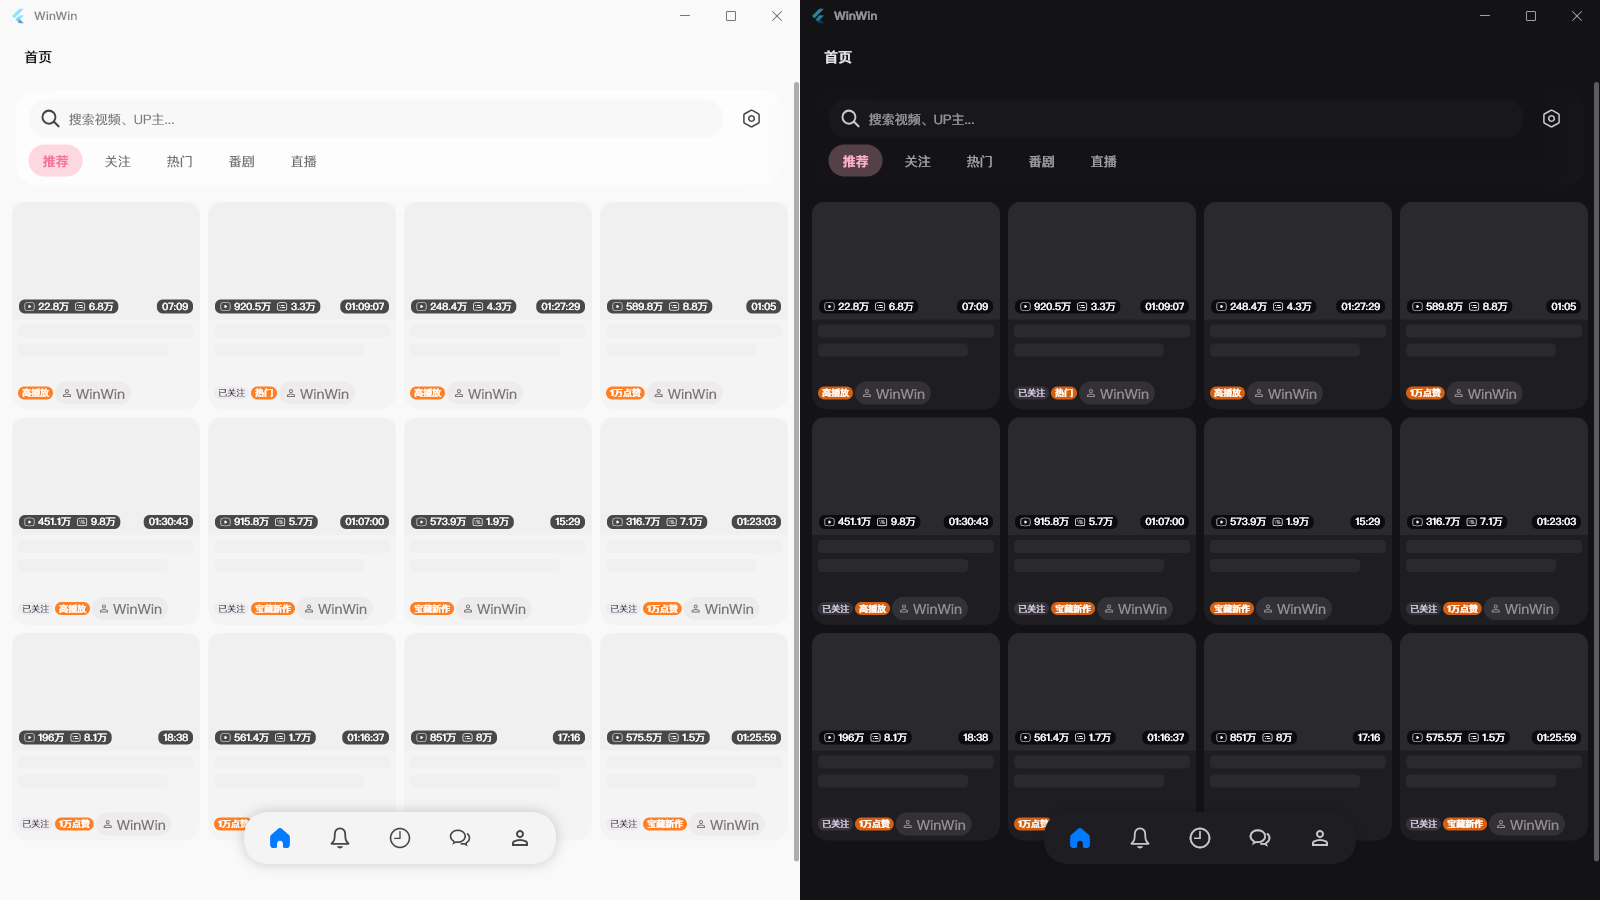
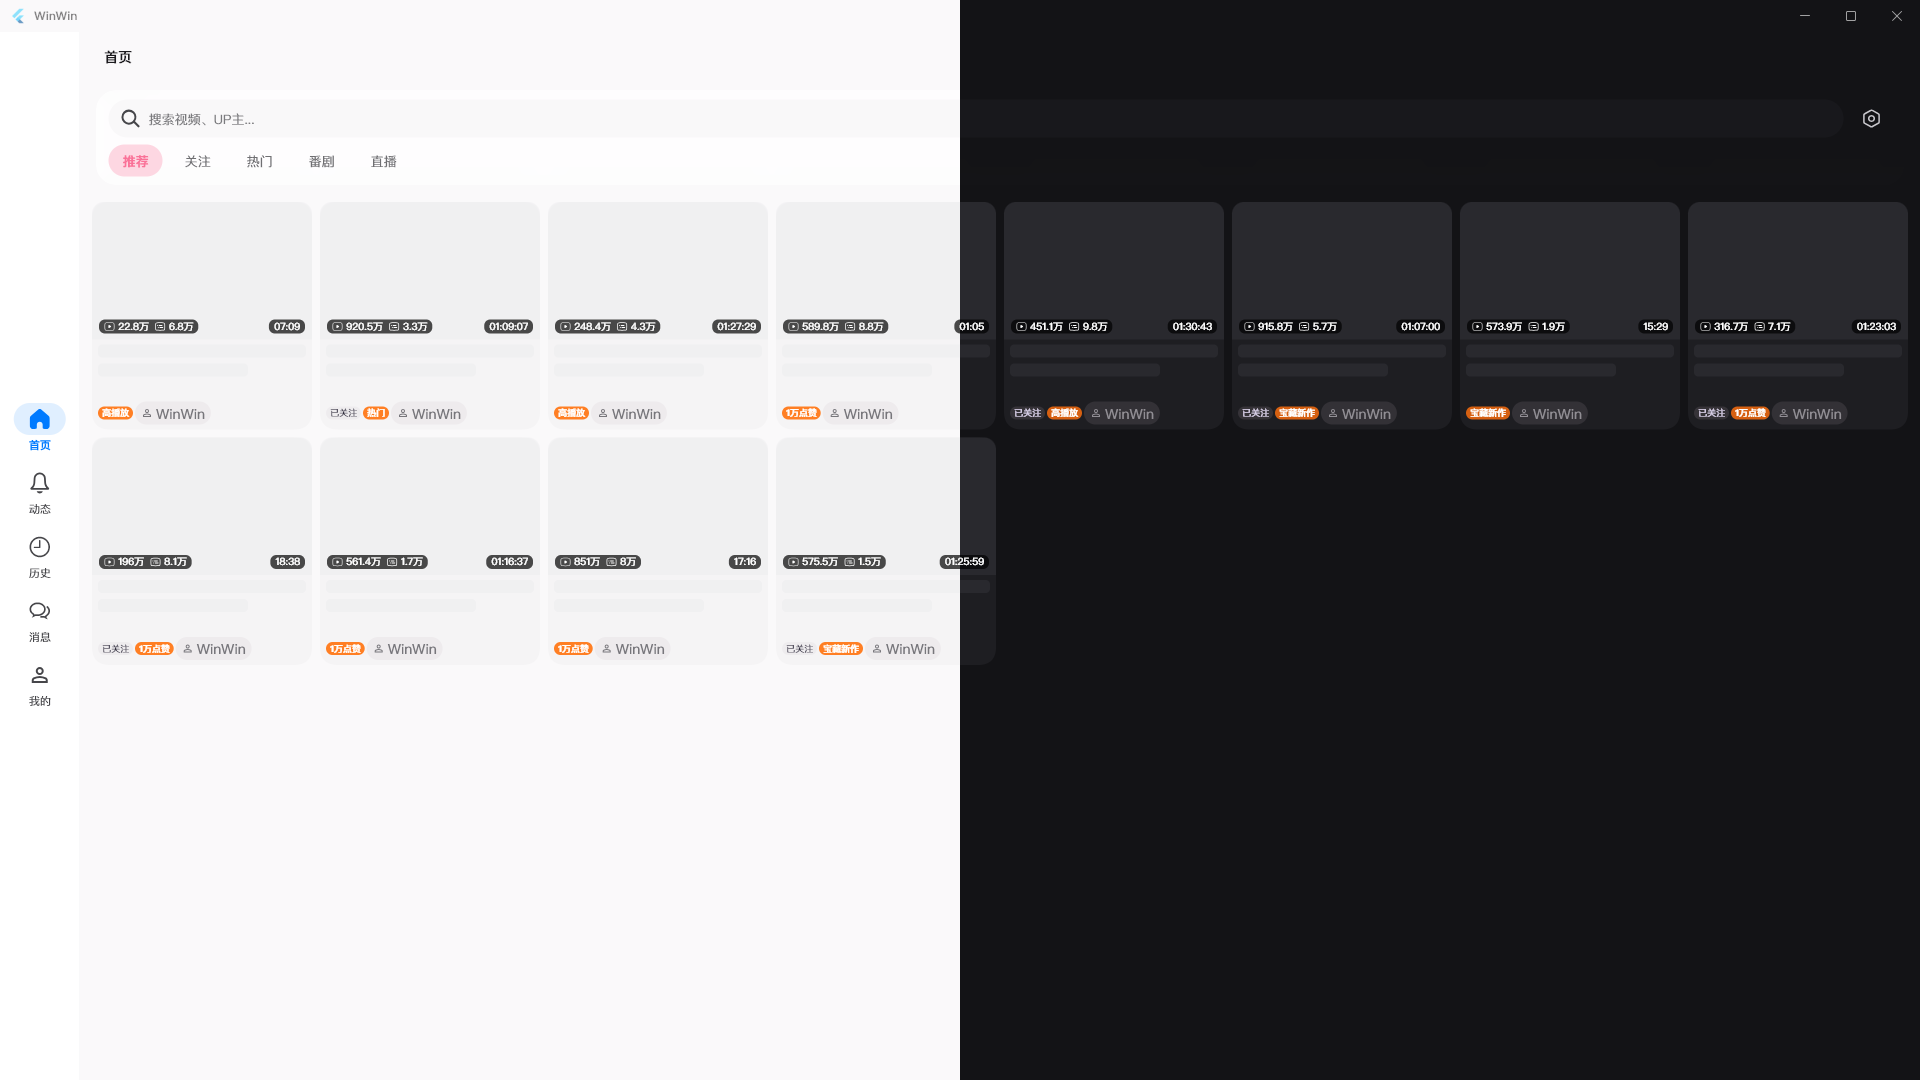
# AI生成 [docs](readme): 演示模式展示图改为 1920×1080 宽屏，浅色左半＋深色右半合成 [小通/deepseek-v4.1-flash]
- 截图统一 1920×1080、宽屏（左侧导航栏）布局
- 拼图口径修正：浅色取左半 + 深色取右半，合成一张 1920×1080
- 重出 assets/screenshots/01-home..05-setting.png
- 更新 README 说明与 docs/README展示图生成复盘-2026-10-25.md

快照基准：cb8be7f（回滚：git reset --hard cb8be7f）。

[小通/deepseek-v4.1-flash]

diff --git a/docs/README展示图生成复盘-2026-10-25.md b/docs/README展示图生成复盘-2026-10-25.md
@@ -6,9 +6,13 @@
 
 为 README 补 5 张「程序演示模式」展示图：**根页面 / 播放页 / 用户空间 / 番剧页 / 设置页**。
 
-口径（用户定）：
+口径（用户定，含一次修正）：
 
-- 每页产出**一张**图，把**浅色截图放左、深色截图放右**拼接，总尺寸 **1600×900**（即每半 800×900）。
+- 原型：每页产出**一张**图、浅色在左深色在右；尺寸 1600×900、每半 800×900。
+- **修正后（本版实际口径）**：
+  1. 截图分辨率统一 **1920×1080**；
+  2. 使用**宽屏模式**窗口（宽 ≥ 900 → 左侧导航栏布局）；
+  3. 拼图法：取**浅色截图的左半** + **深色截图的右半**，左右拼接为**一张 1920×1080**。
 - 截图须为**演示模式**下的干净画面（云端内容与账号标识已换成占位，无第三方素材）。
 
 ## 2. 方案与关键决策
@@ -20,26 +24,30 @@
 原因：
 
 - 单实例互斥体（`windows/runner/main.cpp`，`Local\winwin-single-instance-v1`）要求先关闭在跑实例才能起受控实例；
-- 桌面截屏依赖窗口几何 + 点击坐标，窗口被应用自身的 `WindowStateController` 反复施加保存尺寸 → 尺寸不稳、且盲点不可靠；
+- 桌面截屏依赖窗口几何 + 点击坐标，且窗口被应用自身 `WindowStateController` 反复施加保存尺寸 → 尺寸不稳、盲点不可靠；
 - 应用内 `RenderRepaintBoundary.toImage()` 出图**确定性、不点击、不依赖窗口尺寸/DPI**，且可写进度文件自证。
 
-**尺寸精确化关键坑**：直接把 `SizedBox(800,900)` 放在根，会被父级**紧约束**覆盖（`BoxConstraints.enforce` 取 `max(min, incoming.min)`），实测得到的是窗口逻辑尺寸（先是 656×744，后是 1073×969）。**必须用 `Align`（松约束）包住** `RepaintBoundary → SizedBox(800,900)`，才能真正固定为 800×900。
+**尺寸精确化（两处关键坑）**：
+
+1. 直接把 `SizedBox(1920,1080)` 放根，会被父级**紧约束**覆盖（`BoxConstraints.enforce` 取 `max(min, incoming.min)`）→ 实际得到窗口逻辑尺寸（曾实测 656×744 / 1073×969）。
+2. 用 `Align`（松约束）仍会被窗口尺寸**上界**压制（窗口逻辑高度不足 1080 时被裁剪）。
+   → 最终用 **`Align → UnconstrainedBox → RepaintBoundary → SizedBox(1920×1080)`**：`UnconstrainedBox` 施加**无界约束**，使 `SizedBox` 精确生效、完全不受窗口大小影响；`RepaintBoundary` 尺寸即 1920×1080，`toImage(pixelRatio: 1.0)` 得到精确 1920×1080。1920 宽 ≥ 900 断点 → 自动走**宽屏（左侧导航栏）**布局。
 
 ## 3. 改动面（均为临时，跑完即还原）
 
 - `lib/main.dart`（**临时补丁，已还原**）：
   - 追加 `_shotBoundaryKey` 与 `_runAutoShot()`（环境变量 `WINWIN_AUTOSHOT=1` 时启用）；
-  - `Catcher2` 的 `rootWidget` 在巡航模式下改为 `Align(topLeft) → RepaintBoundary(key) → SizedBox(800×900) → WinWinApp`；
-  - 巡航逻辑：等待 bootstrap → 依次切换浅/深主题（`ThemeNotifier.setMode`）→ 对每页 `appNavigatorKey.currentState.push(AppRoute(...))` → 截帧 → `pop`。
-- 临时辅助工具（跑完已移入 `scratch/screenshot-2026-10-25/`，不入库）：
+  - `Catcher2.rootWidget` 在巡航模式下改为 `Align → UnconstrainedBox → RepaintBoundary(key) → SizedBox(1920×1080) → WinWinApp`；
+  - 巡航逻辑：等 bootstrap → 依次切浅/深主题（`ThemeNotifier.setMode`）→ 逐页 `appNavigatorKey.currentState.push(AppRoute(...))` → 截帧 → `pop`。
+- 临时辅助工具（已入 `scratch/screenshot-2026-10-25/`，gitignored 不入库）：
   - `demo_shot_settings.dart`：读写 Hive `setting` box（`demoMode` / `themeMode` / `windowSize` / `windowPosition` / `isWindowMaximized`）；
-  - `capture_window.ps1`：按窗口矩形外置截屏（本轮未采用，留档备用）。
+  - `capture_window.ps1`：按窗口矩形外置截屏（未采用，留档备用）。
 
-**未提交**任何源改动（`main.dart` 还原；`tool/` 本就未纳管；临时件入 `scratch/`）。
+**未提交**任何源改动（`main.dart` 还原；`tool/` 未纳管；临时件入 `scratch/`）。
 
 ## 4. 产物
 
-`assets/screenshots/`（每张 1600×900，浅色左 / 深色右）：
+`assets/screenshots/`（每张 1920×1080，浅色左半 / 深色右半）：
 
 | 文件 | 页面 |
 | --- | --- |
@@ -55,7 +63,7 @@
 2. 预置设置（Hive 路径 `%APPDATA%\com.winwin\winwin\hive`）：
 
    ```bash
-   dart run tool/demo_shot_settings.dart "%APPDATA%\com.winwin\winwin\hive" set demoMode=true themeMode=0 windowSize=[1300,1400]
+   dart run tool/demo_shot_settings.dart "%APPDATA%\com.winwin\winwin\hive" set demoMode=true
    ```
 
 3. 打临时巡航补丁（`main.dart` 还原前的那版；核心如下），`flutter build windows --release`。
@@ -64,9 +72,12 @@
    // rootWidget（巡航模式）：
    Align(
      alignment: Alignment.topLeft,
-     child: RepaintBoundary(
-       key: _shotBoundaryKey,
-       child: SizedBox(width: 800, height: 900, child: WinWinApp(...)),
+     child: UnconstrainedBox(
+       alignment: Alignment.topLeft,
+       child: RepaintBoundary(
+         key: _shotBoundaryKey,
+         child: SizedBox(width: 1920, height: 1080, child: WinWinApp(...)),
+       ),
      ),
    )
    // _runAutoShot()：等首帧 → 对每个主题/每页 push→截帧→pop
@@ -83,16 +94,19 @@
 
    进度与异常写入 `assets/screenshots/_raw/shot_progress.txt`（`OK <name> WxH` / `ERR` / `FATAL`）。
 
-5. 拼接（Pillow）：
+5. 拼接（Pillow，浅色左半 + 深色右半）：
 
    ```python
    from PIL import Image
    for key, out in [('home','01-home.png'),('player','02-player.png'),
                     ('space','03-space.png'),('bangumi','04-bangumi.png'),
                     ('setting','05-setting.png')]:
-       c = Image.new('RGB', (1600, 900), (255, 255, 255))
-       c.paste(Image.open(f'.../_raw/light_{key}.png').convert('RGB'), (0, 0))
-       c.paste(Image.open(f'.../_raw/dark_{key}.png').convert('RGB'), (800, 0))
+       l = Image.open(f'.../_raw/light_{key}.png').convert('RGB')
+       d = Image.open(f'.../_raw/dark_{key}.png').convert('RGB')
+       w, h = l.size; half = w // 2
+       c = Image.new('RGB', (w, h))
+       c.paste(l.crop((0, 0, half, h)), (0, 0))      # 浅色：左半
+       c.paste(d.crop((half, 0, w, h)), (half, 0))   # 深色：右半
        c.save(f'assets/screenshots/{out}')
    ```
 
@@ -100,19 +114,20 @@
 
 ## 6. 验证与提交回滚
 
-- 巡航自证：`shot_progress.txt` 全 10 项 `OK <name> 800x900`，无 `ERR/FATAL`。
-- 图片非空核验：浅色底 ~`(250,249,250)`、深色底 ~`(19,19,22)`；播放页中心为演示灰占位 `(189,189,190)`。
+- 巡航自证：`shot_progress.txt` 全 10 项 `OK <name> 1920x1080`，无 `ERR/FATAL`。
+- 图片非空核验：浅色底/深色底明暗分明；播放页中心为演示灰占位。
 - 复核方式：**因本会话模型无图像识读能力，成图观感需用户实机查看确认**。
-- 改动前快照基准：`f0c27ad`（工作区干净）。
-- 回滚：`git reset --hard f0c27ad`；用户 Hive 设置已按原值还原（`demoMode=true` / `themeMode=2` / `windowSize=2061.6×1118.4` / `windowPosition=-6.4,-7.2`）。
+- 改动前快照基准：`cb8be7f`（回滚：`git reset --hard cb8be7f`）。
+- 用户 Hive 设置已按原值还原（`demoMode=true` / `themeMode=2` / `windowSize=2061.6×1118.4` / `windowPosition=-6.4,-7.2`）。
 
 ## 7. 踩坑
 
-1. **父级紧约束吞掉 `SizedBox`**：根节点拿到的是窗口逻辑尺寸的**紧**约束，`SizedBox` 缩小无效；须用 `Align`/`Center` 造松约束。
+1. **父级紧约束吞掉 `SizedBox`**：根节点拿到的是窗口逻辑尺寸的**紧**约束，`SizedBox` 缩小无效；`Align` 只解决下限、上限仍被窗口压制 → 最终须用 `UnconstrainedBox` 造**无界约束**。
 2. **按镜像名杀进程被安全策略拦截**（`taskkill /IM`）——必须按 **PID**。
-3. 桌面外置截屏拿到的 client 尺寸不稳定（应用会按保存值重设窗口），故最终放弃外置截屏、改用内部截帧。
-4. 演示模式本已处于开启状态（用户原值 `demoMode=true`）——预检读取原值时才发现，避免误判。
+3. 桌面外置截屏拿到的 client 尺寸不稳定（应用会按保存值重设窗口），故放弃外置截屏、改用内部截帧。
+4. **拼接口径曾理解错**：正确口径不是「整张浅色 + 整张深色并排」，而是**浅色取左半 + 深色取右半**合成一张。
+5. 演示模式本已处于开启状态（原值 `demoMode=true`）——预检读取原值才发现，避免误判。
 
 ## 8. 总结
 
-以「应用内临时巡航 + RepaintBoundary 内部截帧」确定性产出 5 张双主题拼接图，规避了单实例锁、窗口尺寸漂移与不可视盲点三大问题；全部源改动已还原、临时件已归档，仓库仅新增 README 章节与 5 张成品图。成图观感待用户实机确认。
+以「应用内临时巡航 + RepaintBoundary 内部截帧（`UnconstrainedBox` 固定 1920×1080）」确定性产出 5 张「浅色左半 + 深色右半」合成图，规避了单实例锁、窗口尺寸漂移与不可视盲点三大问题；全部源改动已还原、临时件已归档，仓库仅新增 README 章节与 5 张成品图。成图观感待用户实机确认。

diff --git a/README.md b/README.md
@@ -28,7 +28,7 @@
 
 ## 🖼 程序演示模式截图
 
-> 以下均为 **演示模式**（`设置 → 其它设置 → 演示模式`）下的干净截图：云端内容与账号标识被替换为占位，不含第三方素材。每张为 **浅色（左）｜深色（右）** 双主题拼接图，尺寸 1600×900。
+> 以下均为 **演示模式**（`设置 → 其它设置 → 演示模式`）下的干净截图：云端内容与账号标识被替换为占位，不含第三方素材。每张为**同一页面的浅色 / 深色合成图**——取浅色截图**左半**、深色截图**右半**拼接为一张，尺寸 1920×1080（宽屏布局）。
 
 <p align="center">
   <a href="assets/screenshots/01-home.png"><img src="assets/screenshots/01-home.png" alt="根页面（首页）—— 浅色 ｜ 深色" width="100%"></a>
